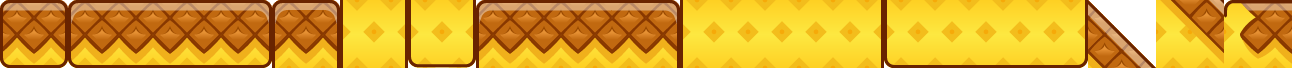
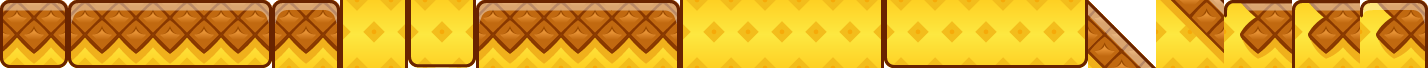
Lati del piano nel mondo 1: ai piedi del muro, gradino e bordo sul vuoto

diff --git a/game.js b/game.js
@@ -50,7 +50,7 @@ function px(c,i,x,y,w,h,capo,meta){if(!PIXEL.complete)return;const s=c.imageSmoo
 const ERBANAN=new Image();ERBANAN.src='assets/erbananas.webp'; /* il ciuffo d'ananas dell'utente al posto del cespuglio nel mondo 1 */
 /* in grandezza vera, alla scala delle caselle da 68 del paesaggio: così il bordo scuro è spesso come quello del pavimento */
 function ciuffo(c,x,y,ts){const w=ERBANAN.width*ts/68,h=ERBANAN.height*ts/68;if(w)c.drawImage(ERBANAN,x-w/2,y-h,w,h);}
-const PAES=new Image();PAES.src='assets/paesaggio.webp';const PAES_RAMPA=16,PAES_SOTTO=17,PAES_ANGOLO=18; /* 17: la terra sotto una rampa a scalini, con la buccia della rampa dopo nell'angolo; 18: il piano che parte ai piedi di un muro più alto a sinistra (a destra si capovolge) */
+const PAES=new Image();PAES.src='assets/paesaggio.webp';const PAES_RAMPA=16,PAES_SOTTO=17,PAES_BORDO={m:18,g:19,v:20}; /* 17: la terra sotto una rampa a scalini, con la buccia della rampa dopo nell'angolo; 18-20: dove il piano finisce a sinistra, ai piedi di un muro più alto (m), con un gradino in giù (g) o sul vuoto (v); a destra si capovolgono, il bordo sul vuoto al contrario */
 function paes(c,i,x,y,w,h,flip){const s=c.imageSmoothingEnabled;c.imageSmoothingEnabled=false;if(flip){c.save();c.translate(x+w,y);c.scale(-1,1);c.drawImage(PAES,i*68,0,68,68,0,0,w,h);c.restore();}else c.drawImage(PAES,i*68,0,68,68,x,y,w,h);c.imageSmoothingEnabled=s;}
 function sp(c,n,x,y,w,h,flip){if(n.startsWith('terrain_sand_')&&PAES.complete){const t=n.slice(13);if(t==='ramp_short_b'){paes(c,PAES_RAMPA,x,y,w,h,flip);return;}if(t in PIX){paes(c,PIX[t],x,y,w,h);return;}}
  const q=KMAP[n],im=q&&q[2]?KIT2:KIT;if(!q||!im.complete)return;if(flip){c.save();c.translate(x+w,y);c.scale(-1,1);c.drawImage(im,q[0],q[1],96,96,0,0,w,h);c.restore();}else c.drawImage(im,q[0],q[1],96,96,x,y,w,h);}
@@ -505,6 +505,9 @@ function nomeTile(x,y,k){
  else n=l&&r?'block_center':l?'block_right':'block_left';
  return 'terrain_'+k+'_'+n;
 }
+/* com'è il lato del piano in x,y: [m|g|v, -1 sinistra|1 destra], o null se i lati continuano o finiscono tutti e due */
+function latoPiano(x,y){const muro=(i,j)=>solidoK(i,j)&&!'/%'.includes(cel(i,j)),caso=d=>muro(x+d,y)&&muro(x+d,y+1)?'m':solidoK(x+d,y)?null:solidoK(x+d,y-1)?'g':'v',l=caso(-1),r=caso(1);
+ if(l&&r){if(l==='m'&&r!=='m')return[r,1];if(r==='m'&&l!=='m')return[l,-1];return l==='m'?[l,-1]:null;}return l?[l,-1]:r?[r,1]:null;}
 function disegna2d(){
  const c=ctx2,m=MONDI[M.i],ts=V.ts,W=V.W,H=V.H,p=P2,k=m.kit,k0=k;
  c.setTransform(V.dpr,0,0,V.dpr,0,0);fondale(c,m);if(G.scossa>0)c.translate(rnd(-5,5)*G.scossa*2,rnd(-5,5)*G.scossa*2);
@@ -517,8 +520,8 @@ function disegna2d(){
  for(let y=Math.max(y0,-20);y<=y1;y++)for(let x=c0;x<=c1;x++){const a=sx(x)-ts/2,b=sy(y)-ts/2;
   if(y<=0&&cel(x,0)!=='#'){if(M.boss&&(x<0||x>=M.w))continue;sp(c,m.liquido+(y===0?(lento?'_top':'_top_low'):''),a,b,mz,mz);continue;}
   const t=y<0?'#':cel(x,y);if(t===' ')continue;
-  if(t==='#'){const r=cel(x,y+1),muro=(i,j)=>solidoK(i,j)&&!'/%'.includes(cel(i,j)),su=!solidoK(x,y+1);if(k==='sand'&&PAES.complete&&((r==='%'&&'%#'.includes(cel(x+1,y)))||(r==='/'&&'/#'.includes(cel(x-1,y)))))paes(c,PAES_SOTTO,a,b,mz,mz,r==='/');
-  else if(k==='sand'&&PAES.complete&&su&&((muro(x-1,y)&&muro(x-1,y+1))||(muro(x+1,y)&&muro(x+1,y+1))))paes(c,PAES_ANGOLO,a,b,mz,mz,!(muro(x-1,y)&&muro(x-1,y+1)));else sp(c,nomeTile(x,y,k),a,b,mz,mz);}
+  if(t==='#'){const r=cel(x,y+1),su=!solidoK(x,y+1);let bordo;if(k==='sand'&&PAES.complete&&((r==='%'&&'%#'.includes(cel(x+1,y)))||(r==='/'&&'/#'.includes(cel(x-1,y)))))paes(c,PAES_SOTTO,a,b,mz,mz,r==='/');
+  else if(k==='sand'&&PAES.complete&&su&&(y<=0||solidoK(x,y-1))&&(bordo=latoPiano(x,y)))paes(c,PAES_BORDO[bordo[0]],a,b,mz,mz,(bordo[1]>0)!==(bordo[0]==='v'));else sp(c,nomeTile(x,y,k),a,b,mz,mz);}
   else if(t==='C')sp(c,'block_exclamation',a,b,mz,mz);
   else if(t==='D')sp(c,'lock_blue',a,b,mz,mz);
   else if(t==='X')sp(c,'bricks_brown',a,b,mz,mz);

diff --git a/CLAUDE.md b/CLAUDE.md
@@ -6,12 +6,12 @@ Gioco per browser pensato per il telefono in orizzontale, pubblicato con GitHub 
 - `index.html`: solo il markup delle schermate (menu, guida, amici e skin, pausa, fine, HUD).
 - `style.css`: lo stile, con i colori come variabili su `:root`.
 - `game.js`: tutta la logica, in un unico script classico chiuso in una funzione e diviso in sezioni `/* ---------- NOME ---------- */`: orientamento, salvataggio, mondi e tappe, kit grafico e sonoro, skin, palla dipinta, audio, stato, comandi, cuori, corsa 2D, boss 2D, la bomba, guida, flusso, menu, ciclo.
-- `assets/`: `kit.webp` (atlante dei blocchi Kenney, coordinate in `KMAP`), `personaggio.webp`, `personaggio2.webp` e `personaggio3.webp` (fogli delle animazioni di Matteo; il terzo è Matteo stanco, con le stesse celle da 200 del secondo), `fumo.webp`, `polvere.webp`, `esplosione.webp`, `pizza.webp`, `kit2.webp` (altri pezzi del kit), `nemico_ananas.webp` (l'ananas arrabbiato dal foglio "Pineapple Tiles" CC0 dell'utente, nemico del mondo 1; degli altri pezzi di quel foglio l'utente non vuole niente, né per il terreno né per le grotte; il terreno ananas di `paesaggio.webp` è un'altra serie, che invece gli va bene), `paesaggio.webp` (terreno del mondo 1: buccia e polpa d'ananas disegnate dall'utente, caselle da 68 nello stesso ordine di `PIX`, poi la rampa (`sprite-20.png`), la terra sotto la rampa (`paesaggio.png`) e l'angolo ai piedi di un muro (`sprite.png`); i pezzi singoli stanno in `paesaggio/`), `erbananas.webp` (ciuffo d'ananas dell'utente, al posto del cespuglio nei decori del mondo 1 e nel menu, disegnato da `ciuffo()` in grandezza vera, alla scala delle caselle da 68, perché il bordo scuro sia spesso come quello del pavimento. Largo più di 3 caselle, deve stare tutto sul piano: se sporge sul vuoto rientra un po' a sinistra (`d.dx`), e se non ci sta diventa erba; l'originale è `paesaggio/erbananas.png`), `pixel.webp` (caselle da 18: terra del kit Farm Expansion per le grotte), `bomba.webp` (Matteo carico al massimo: 37 fotogrammi da 160 in righe da 10, mappa in `disegnaBomba`), `boss_ananas.webp` (Ananassone: fotogrammi da 192x204 in righe da 8, 32-34 stordito, mappa in `disegnaAnanas` e `disegnaBoss`; gli altri due boss sono ancora disegnati nel codice in `BOSPR`), `fondi/*.webp`, `suoni/*.mp3`.
+- `assets/`: `kit.webp` (atlante dei blocchi Kenney, coordinate in `KMAP`), `personaggio.webp`, `personaggio2.webp` e `personaggio3.webp` (fogli delle animazioni di Matteo; il terzo è Matteo stanco, con le stesse celle da 200 del secondo), `fumo.webp`, `polvere.webp`, `esplosione.webp`, `pizza.webp`, `kit2.webp` (altri pezzi del kit), `nemico_ananas.webp` (l'ananas arrabbiato dal foglio "Pineapple Tiles" CC0 dell'utente, nemico del mondo 1; degli altri pezzi di quel foglio l'utente non vuole niente, né per il terreno né per le grotte; il terreno ananas di `paesaggio.webp` è un'altra serie, che invece gli va bene), `paesaggio.webp` (terreno del mondo 1: buccia e polpa d'ananas disegnate dall'utente, caselle da 68 nello stesso ordine di `PIX`, poi la rampa (`sprite-20.png`), la terra sotto la rampa (`paesaggio.png`) e i lati del piano: ai piedi di un muro (`sprite-28.png`), gradino in giù (`sprite-29.png`) e bordo sul vuoto (`sprite-30.png`); i pezzi singoli stanno in `paesaggio/`), `erbananas.webp` (ciuffo d'ananas dell'utente, al posto del cespuglio nei decori del mondo 1 e nel menu, disegnato da `ciuffo()` in grandezza vera, alla scala delle caselle da 68, perché il bordo scuro sia spesso come quello del pavimento. Largo più di 3 caselle, deve stare tutto sul piano: se sporge sul vuoto rientra un po' a sinistra (`d.dx`), e se non ci sta diventa erba; l'originale è `paesaggio/erbananas.png`), `pixel.webp` (caselle da 18: terra del kit Farm Expansion per le grotte), `bomba.webp` (Matteo carico al massimo: 37 fotogrammi da 160 in righe da 10, mappa in `disegnaBomba`), `boss_ananas.webp` (Ananassone: fotogrammi da 192x204 in righe da 8, 32-34 stordito, mappa in `disegnaAnanas` e `disegnaBoss`; gli altri due boss sono ancora disegnati nel codice in `BOSPR`), `fondi/*.webp`, `suoni/*.mp3`.
 - `tools/build.py`: ricompone tutto in `dist/cicciobomba.html`, un file unico con le risorse dentro, che si apre con un doppio clic. `dist/` è generata ed esclusa da git: non modificarla a mano.
 
 ## Regole
 - Testi, nomi di variabili e commenti in italiano. Il codice è compatto (righe lunghe, nomi brevi): mantieni lo stesso stile.
-- Grafica e suoni solo CC0 (Kenney: New Platformer Pack, Pixel Platformer, Pixel Platformer Farm Expansion) o disegnati nel codice. Il terreno del mondo 1 è il paesaggio ananas dell'utente: `sp()` disegna i nomi `terrain_sand_*` con le caselle di `paesaggio.webp` (indici di `PIX`, funzione `paes`), senza smussare i pixel. La rampa è una sola, che scende verso destra: quella che sale è la stessa capovolta. Sotto una rampa, se a lato c'è un'altra rampa o il piano, va la casella `PAES_SOTTO`, che porta nell'angolo la buccia della rampa dopo: così la buccia scende continua. Dove il piano parte ai piedi di un muro di terra più alto va `PAES_ANGOLO`, capovolto se il muro è a destra (le rampe non contano come muro). Un nuovo asset va in `assets/` e si richiama con un percorso scritto per intero tra apici (`'assets/...'`), altrimenti `build.py` non lo mette nel file unico.
+- Grafica e suoni solo CC0 (Kenney: New Platformer Pack, Pixel Platformer, Pixel Platformer Farm Expansion) o disegnati nel codice. Il terreno del mondo 1 è il paesaggio ananas dell'utente: `sp()` disegna i nomi `terrain_sand_*` con le caselle di `paesaggio.webp` (indici di `PIX`, funzione `paes`), senza smussare i pixel. La rampa è una sola, che scende verso destra: quella che sale è la stessa capovolta. Sotto una rampa, se a lato c'è un'altra rampa o il piano, va la casella `PAES_SOTTO`, che porta nell'angolo la buccia della rampa dopo: così la buccia scende continua. Dove il piano con terra sotto finisce di lato, `latoPiano` sceglie in `PAES_BORDO`: `m` ai piedi di un muro di terra più alto (le rampe non contano come muro), `g` gradino in giù, `v` vuoto. Sono disegnati per il lato sinistro e a destra si capovolgono; il bordo sul vuoto al contrario, perché la buccia stia dal lato del vuoto. Le piattaforme sospese tengono i loro pezzi. Un nuovo asset va in `assets/` e si richiama con un percorso scritto per intero tra apici (`'assets/...'`), altrimenti `build.py` non lo mette nel file unico.
 - Il salvataggio sta nel `localStorage` con chiave `rotolamici-v1`. Se cambi la struttura di `S`, gestisci i salvataggi vecchi.
 - `VITE_INFINITE` in `game.js` è un'impostazione per le prove: con `true` non si perdono cuori. Va lasciata `false`.
 - Quello che va su `main` finisce subito online su GitHub Pages: si pubblica solo dopo averlo provato.
